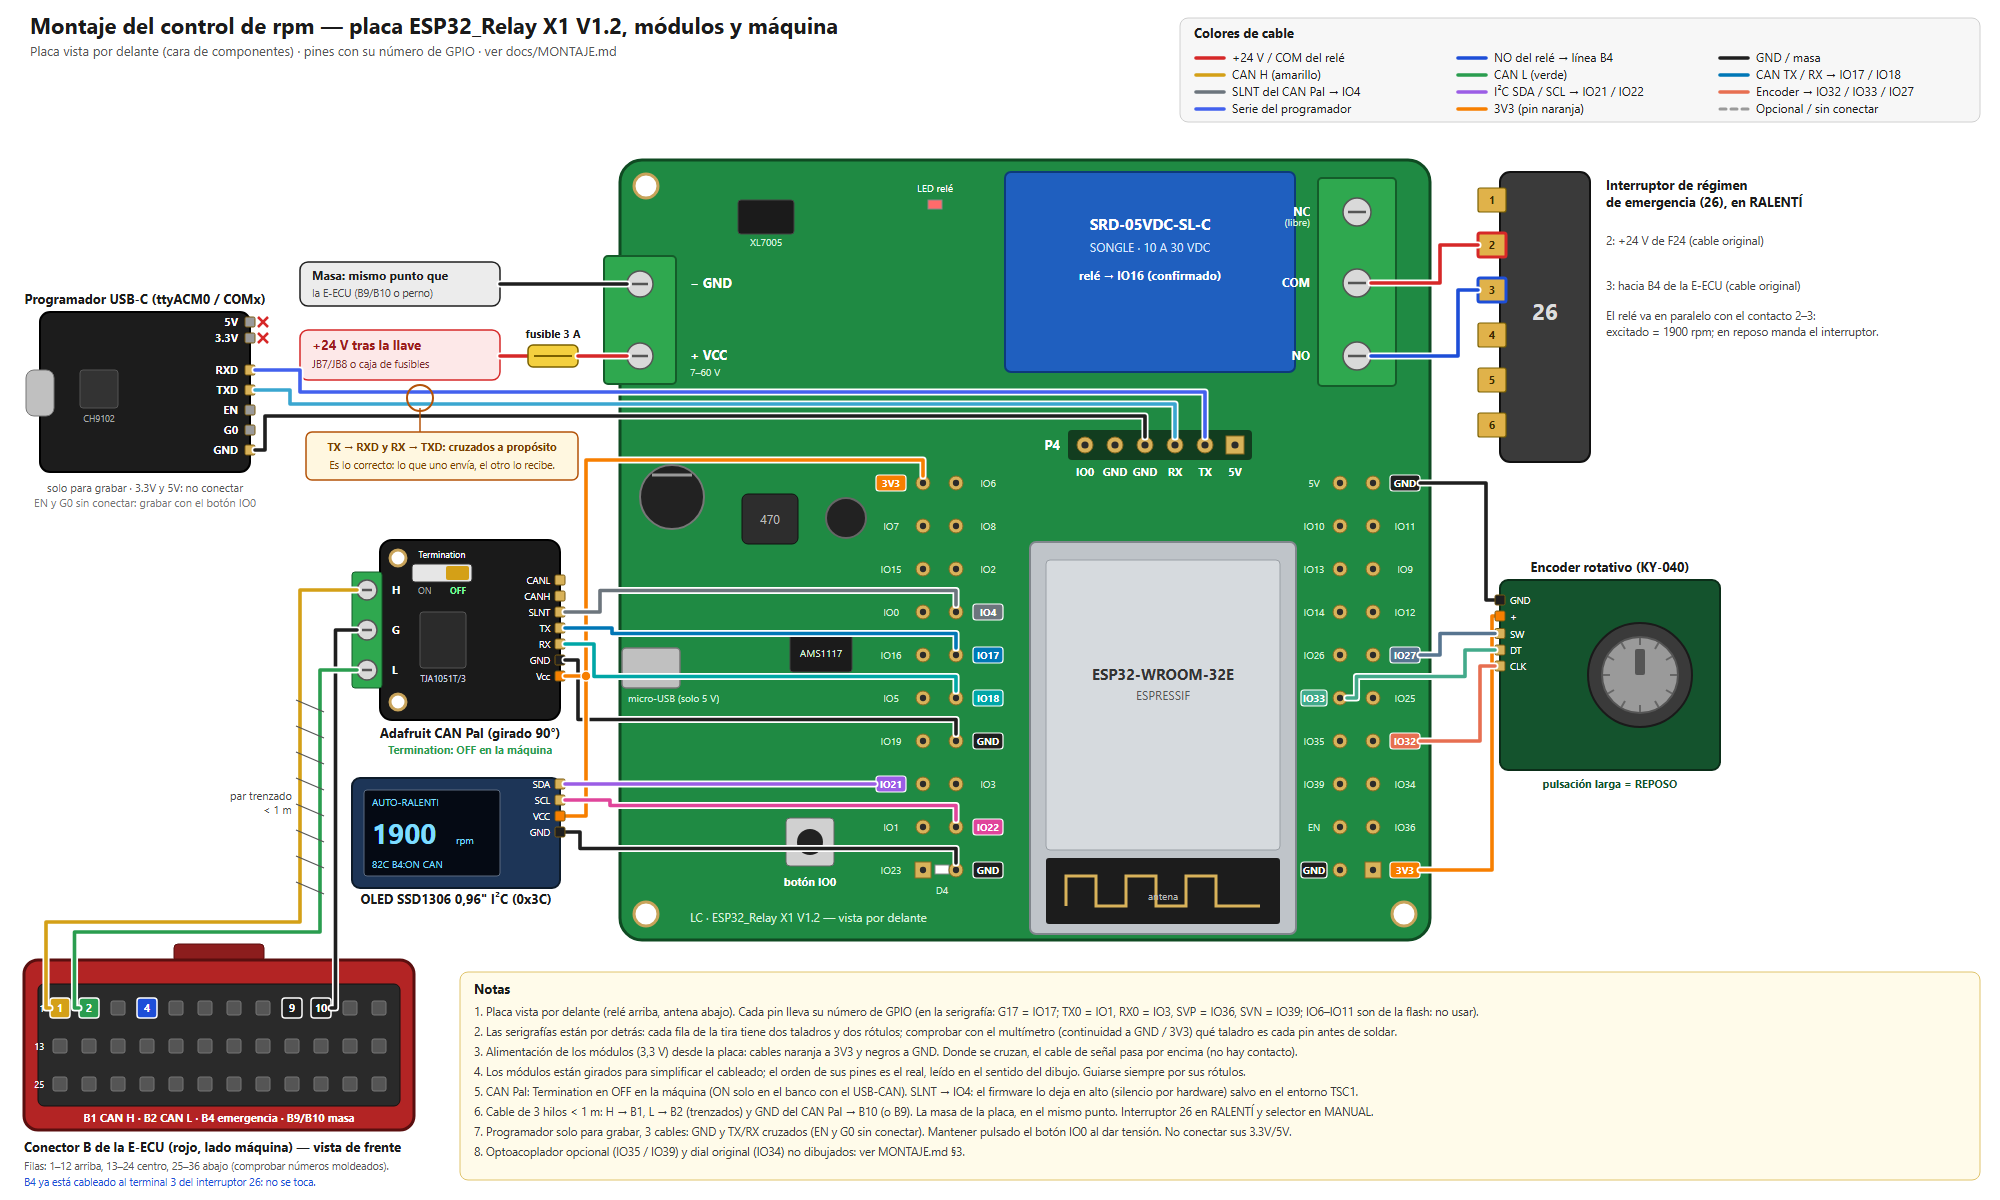
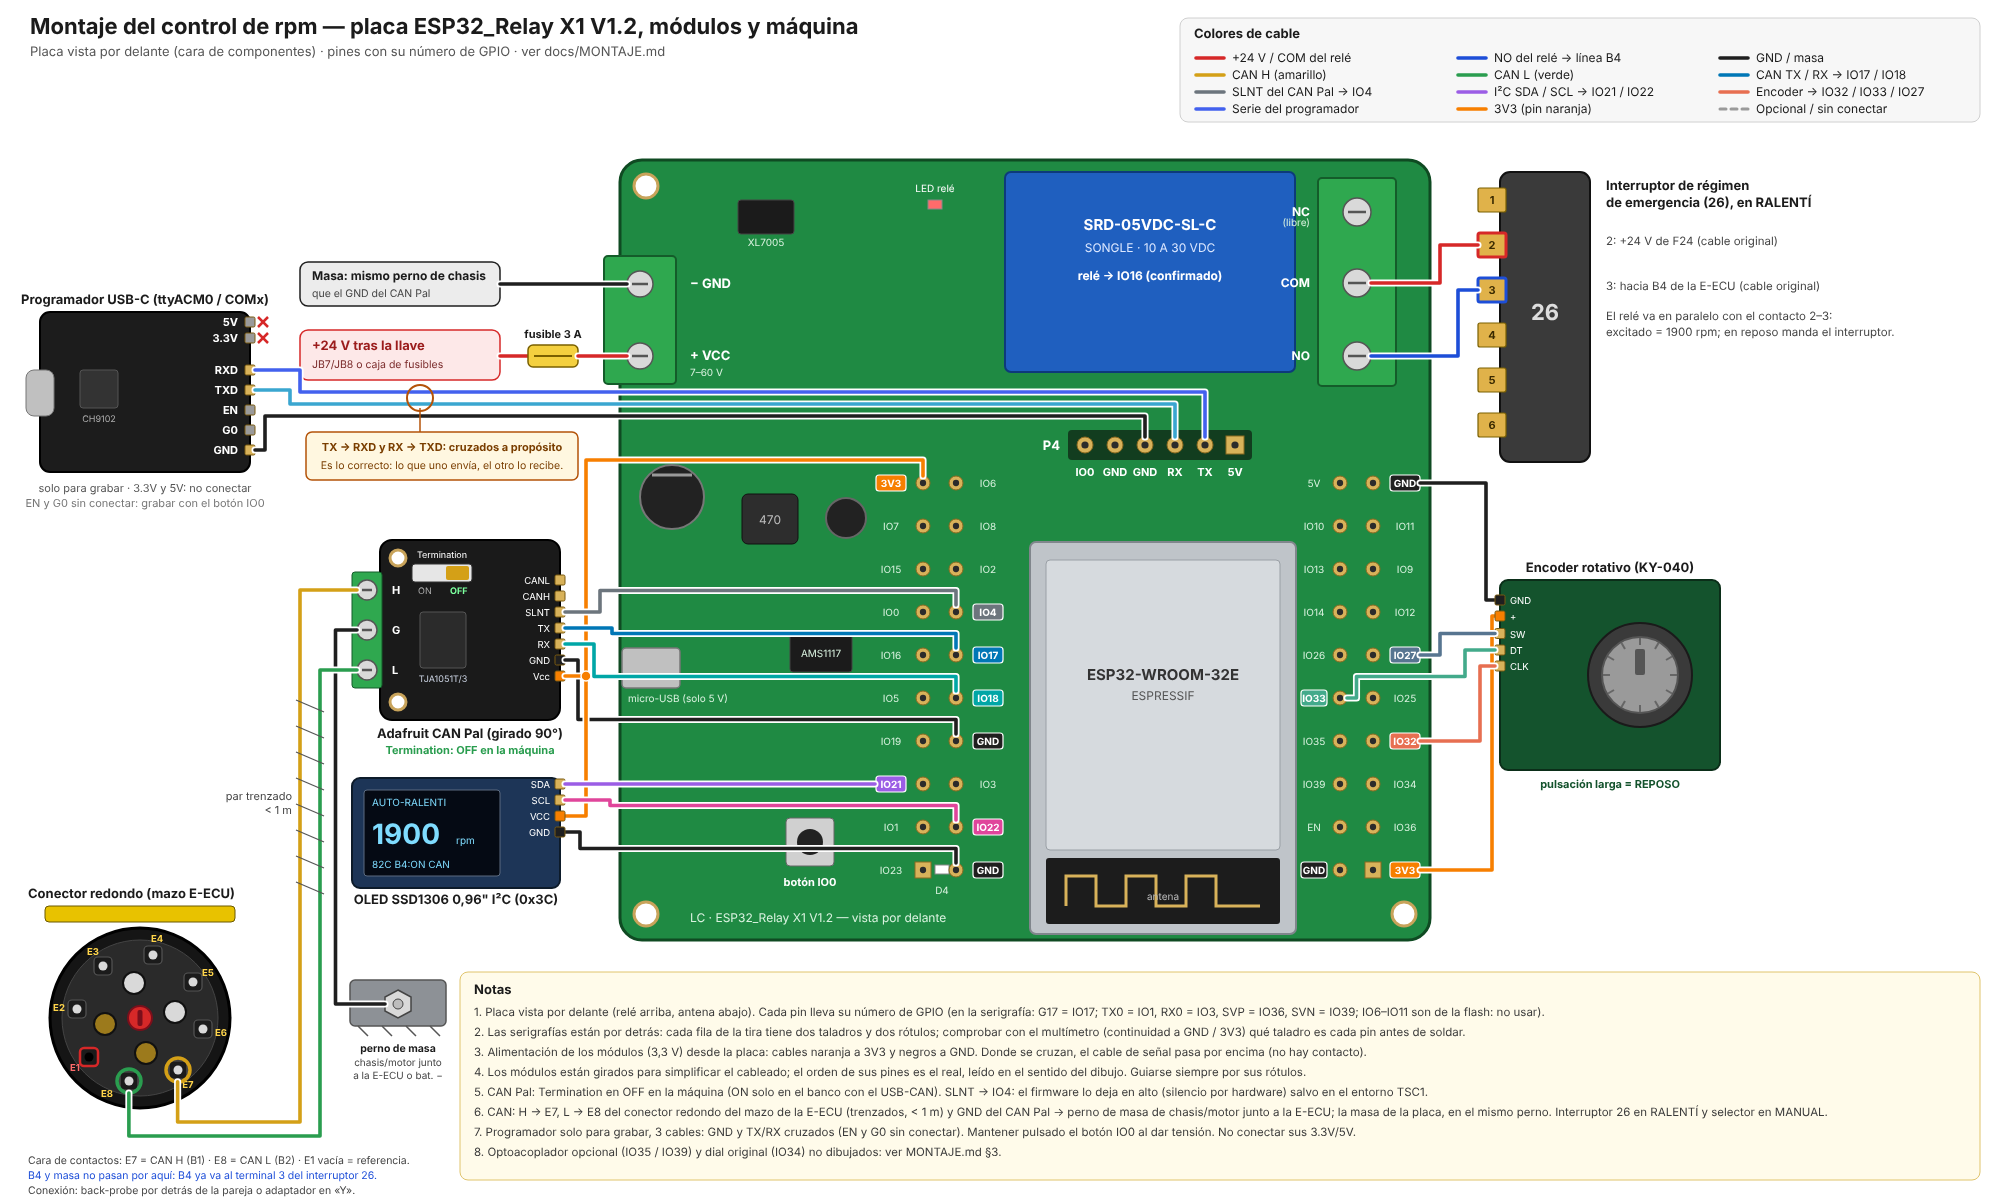
Diagrama de montaje: conector redondo del mazo de la E-ECU (E7/E8) y perno de masa en lugar del conector B
Claude-Session: https://claude.ai/code/session_01P7Zsw5NLTBMVKWo4ZsTFMR

diff --git a/tools/gen_esquema_montaje.py b/tools/gen_esquema_montaje.py
@@ -184,8 +184,8 @@ for k, y in enumerate(RK):
 
 # ================================================================ alimentación de la máquina
 a('<rect x="300" y="362" width="200" height="44" rx="8" fill="#ececec" stroke="#1f1f1f" stroke-width="1.5"/>')
-text(312, 380, "Masa: mismo punto que", size=12, weight="bold")
-text(312, 397, "la E-ECU (B9/B10 o perno)", size=10.5, fill="#444")
+text(312, 380, "Masa: mismo perno de chasis", size=12, weight="bold")
+text(312, 397, "que el GND del CAN Pal", size=10.5, fill="#444")
 wire([(500, 384), (627, 384)], C["gnd"])
 a('<rect x="300" y="430" width="200" height="50" rx="8" fill="#fde8e8" stroke="#d62828" stroke-width="1.5"/>')
 text(312, 450, "+24 V tras la llave", size=13, weight="bold", fill="#9b1c1c")
@@ -284,38 +284,60 @@ text(456, 1004, "OLED SSD1306 0,96\" I²C (0x3C)", size=13, anchor="middle", wei
 wire([(565, 884), (875, 884)], C["sda"])                                              # SDA → IO21 (ext. rango 7)
 wire([(565, 900), (610, 900), (610, 905.5), (956, 905.5), (956, 920)], C["scl"])        # SCL → IO22 (int. rango 8)
 
-# ================================================================ conector B de la E-ECU (abajo a la izquierda)
-CBX, CBY = 24, 1060
-a(f'<rect x="{CBX + 150}" y="{CBY - 16}" width="90" height="18" rx="4" fill="#8c1d1d" stroke="#5a0f0f"/>')
-a(f'<rect x="{CBX}" y="{CBY}" width="390" height="170" rx="14" fill="#b32424" stroke="#5a0f0f" stroke-width="3"/>')
-a(f'<rect x="{CBX + 14}" y="{CBY + 24}" width="362" height="122" rx="6" fill="#2a2a2a" stroke="#111"/>')
-CX = [CBX + 36 + 29 * i for i in range(12)]
-RY = [CBY + 48, CBY + 86, CBY + 124]
-special = {1: ("canh", "1"), 2: ("canl", "2"), 4: ("b4", "4"), 9: ("gnd", "9"), 10: ("gnd", "10")}
-for r, y in enumerate(RY):
-    for i, x in enumerate(CX):
-        n = r * 12 + i + 1
-        if n in special:
-            col, lab = special[n]
-            a(f'<rect x="{x - 10}" y="{y - 10}" width="20" height="20" rx="3" fill="{C[col]}" stroke="#fff" stroke-width="1.5"/>')
-            text(x, y + 4, lab, size=11, fill="#ffffff", anchor="middle", weight="bold")
-        else:
-            a(f'<rect x="{x - 7}" y="{y - 7}" width="14" height="14" rx="2" fill="#555" stroke="#777"/>')
-for lab, y in [("1", RY[0]), ("13", RY[1]), ("25", RY[2])]:
-    text(CBX + 20, y + 4, lab, size=9, fill="#ffffff", anchor="end")
-text(CBX + 195, CBY + 162, "B1 CAN H · B2 CAN L · B4 emergencia · B9/B10 masa", size=11, fill="#ffffff", anchor="middle", weight="bold")
-text(CBX, CBY + 192, "Conector B de la E-ECU (rojo, lado máquina) — vista de frente", size=13, weight="bold")
-text(CBX, CBY + 210, "Filas: 1–12 arriba, 13–24 centro, 25–36 abajo (comprobar números moldeados).", size=10.5, fill="#555")
-text(CBX, CBY + 226, "B4 ya está cableado al terminal 3 del interruptor 26: no se toca.", size=10.5, fill=C["b4"])
-# GND del CAN Pal (borne G) → B10: referencia de masa común con la E-ECU
-wire([(357, 730), (335.5, 730), (335.5, RY[0]), (CX[9] + 10, RY[0])], C["gnd"])
-# H → B1, L → B2 (par trenzado)
-wire([(357, 690), (300, 690), (300, 1022), (CX[0] - 14, 1022), (CX[0] - 14, RY[0]), (CX[0] - 10, RY[0])], C["canh"])
-wire([(357, 770), (320, 770), (320, 1032), (CX[1] - 14.5, 1032), (CX[1] - 14.5, RY[0]), (CX[1] - 10, RY[0])], C["canl"])
+# ================================================================ conector redondo del mazo de la E-ECU (abajo a la izquierda)
+# La clavija de la E-ECU no se puede pinchar (A y B en la misma carcasa): CAN H/L se toman en E7/E8 del
+# conector redondo (medido 2026-10-21) y la masa en un perno de chasis. B4 y B9/B10 no pasan por él.
+# Geometría y numeración como tools/gen_conector_MC02.py (E1 = cavidad exterior vacía, sentido horario).
+RCX, RCY = 140, 1118
+
+
+def polar(r, ang):
+    t = math.radians(ang)
+    return RCX + r * math.sin(t), RCY - r * math.cos(t)
+
+
+a(f'<rect x="{RCX - 95}" y="{RCY - 112}" width="190" height="16" rx="4" fill="#e8c200" stroke="#6b5800"/>')
+a(f'<circle cx="{RCX}" cy="{RCY}" r="90" fill="#151515" stroke="#000" stroke-width="3"/>')
+a(f'<circle cx="{RCX}" cy="{RCY}" r="78" fill="#2a2a2a" stroke="#444"/>')
+for ang, montado in [(260, False), (350, True), (80, True), (170, False)]:
+    x, y = polar(36, ang)
+    a(f'<circle cx="{x:.0f}" cy="{y:.0f}" r="11" fill="{"#d9d9d9" if montado else "#9c7a1c"}" stroke="#111" stroke-width="2"/>')
+EXT = [(233, False), (278, True), (325, True), (12, True), (56, True), (100, True), (144, True), (190, True)]
+for i, (ang, montado) in enumerate(EXT, 1):
+    x, y = polar(64, ang)
+    a(f'<rect x="{x - 9:.0f}" y="{y - 9:.0f}" width="18" height="18" rx="4" fill="#1b1b1b" '
+      f'stroke="{"#d62828" if i == 1 else "#555"}" stroke-width="{2.5 if i == 1 else 1.2}"/>')
+    a(f'<circle cx="{x:.0f}" cy="{y:.0f}" r="4.5" fill="{"#d9d9d9" if montado else "#000"}"/>')
+    lx, ly = polar(82, ang + (14 if i == 8 else 0))
+    text(f"{lx:.0f}", f"{ly + 4:.0f}", f"E{i}", size=9.5, fill="#ff6b6b" if i == 1 else "#ffd54a", anchor="middle", weight="bold")
+a(f'<circle cx="{RCX}" cy="{RCY}" r="12" fill="#d62828" stroke="#7a0f1b" stroke-width="2"/>')
+a(f'<rect x="{RCX - 2.5}" y="{RCY - 8}" width="5" height="16" rx="2" fill="#7a0f1b"/>')
+E7, E8 = polar(64, 144), polar(64, 190)
+for (x, y), col in [(E7, C["canh"]), (E8, C["canl"])]:
+    a(f'<circle cx="{x:.0f}" cy="{y:.0f}" r="12" fill="none" stroke="{col}" stroke-width="3.5"/>')
+text(RCX - 112, RCY - 120, "Conector redondo (mazo E-ECU)", size=13, weight="bold")
+text(RCX - 112, RCY + 146, "Cara de contactos: E7 = CAN H (B1) · E8 = CAN L (B2) · E1 vacía = referencia.", size=10.5, fill="#444")
+text(RCX - 112, RCY + 161, "B4 y masa no pasan por aquí: B4 ya va al terminal 3 del interruptor 26.", size=10.5, fill=C["b4"])
+
+# Perno de masa del chasis / motor junto a la E-ECU (o negativo de batería)
+a('<rect x="350" y="1080" width="96" height="46" rx="5" fill="#8d9196" stroke="#555" stroke-width="1.5"/>')
+for k in range(4):
+    a(f'<line x1="{358 + k * 24}" y1="1126" x2="{368 + k * 24}" y2="1136" stroke="#555" stroke-width="1.5"/>')
+a('<polygon points="398,1090 411,1097 411,1111 398,1118 385,1111 385,1097" fill="#d9d9d9" stroke="#444" stroke-width="1.5"/>')
+a('<circle cx="398" cy="1104" r="5" fill="#bdbdbd" stroke="#444"/>')
+text(398, 1152, "perno de masa", size=10.5, anchor="middle", weight="bold")
+text(398, 1166, "chasis/motor junto", size=10, fill="#444", anchor="middle")
+text(398, 1179, "a la E-ECU o bat. −", size=10, fill="#444", anchor="middle")
+# GND del CAN Pal (borne G) → perno: referencia de masa común con la E-ECU
+wire([(357, 730), (335.5, 730), (335.5, 1104), (385, 1104)], C["gnd"])
+# H → E7, L → E8 (par trenzado), por debajo del conector, sin cruces
+wire([(357, 690), (300, 690), (300, 1222), (E7[0], 1222), (E7[0], E7[1] + 12)], C["canh"])
+wire([(357, 770), (320, 770), (320, 1236), (E8[0], 1236), (E8[0], E8[1] + 12)], C["canl"])
 for y in range(800, 1000, 26):
     a(f'<path d="M 296 {y} C 310 {y + 6}, 310 {y + 6}, 324 {y + 12}" stroke="#555" stroke-width="1.2" fill="none"/>')
 text(292, 900, "par trenzado", size=11, fill="#444", anchor="end")
 text(292, 914, "< 1 m", size=11, fill="#444", anchor="end")
+text(RCX - 112, RCY + 176, "Conexión: back-probe por detrás de la pareja o adaptador en «Y».", size=10.5, fill="#444")
 
 # ================================================================ interruptor de emergencia 26 (derecha, junto al relé)
 a('<rect x="1500" y="272" width="90" height="290" rx="10" fill="#3a3a3a" stroke="#111" stroke-width="2"/>')
@@ -366,7 +388,7 @@ notas = [
     "3. Alimentación de los módulos (3,3 V) desde la placa: cables naranja a 3V3 y negros a GND. Donde se cruzan, el cable de señal pasa por encima (no hay contacto).",
     "4. Los módulos están girados para simplificar el cableado; el orden de sus pines es el real, leído en el sentido del dibujo. Guiarse siempre por sus rótulos.",
     "5. CAN Pal: Termination en OFF en la máquina (ON solo en el banco con el USB-CAN). SLNT → IO4: el firmware lo deja en alto (silencio por hardware) salvo en el entorno TSC1.",
-    "6. Cable de 3 hilos < 1 m: H → B1, L → B2 (trenzados) y GND del CAN Pal → B10 (o B9). La masa de la placa, en el mismo punto. Interruptor 26 en RALENTÍ y selector en MANUAL.",
+    "6. CAN: H → E7, L → E8 del conector redondo del mazo de la E-ECU (trenzados, < 1 m) y GND del CAN Pal → perno de masa de chasis/motor junto a la E-ECU; la masa de la placa, en el mismo perno. Interruptor 26 en RALENTÍ y selector en MANUAL.",
     "7. Programador solo para grabar, 3 cables: GND y TX/RX cruzados (EN y G0 sin conectar). Mantener pulsado el botón IO0 al dar tensión. No conectar sus 3.3V/5V.",
     "8. Optoacoplador opcional (IO35 / IO39) y dial original (IO34) no dibujados: ver MONTAJE.md §3.",
 ]

diff --git a/docs/MONTAJE.md b/docs/MONTAJE.md
@@ -4,7 +4,7 @@ Guía de conexión con el hardware que ya tenemos. Pinout de la placa y fotos: [
 
 ![Diagrama ilustrado de montaje](esquema_montaje_ESP32.png)
 
-Diagrama ilustrado de todas las conexiones (fuente editable: [`esquema_montaje_ESP32.svg`](esquema_montaje_ESP32.svg)): placa vista por delante con el número de GPIO de cada pin, programador, Adafruit CAN Pal, OLED, encoder, conector B de la E-ECU, interruptor de emergencia 26 y alimentación.
+Diagrama ilustrado de todas las conexiones (fuente editable: [`esquema_montaje_ESP32.svg`](esquema_montaje_ESP32.svg)): placa vista por delante con el número de GPIO de cada pin, programador, Adafruit CAN Pal, OLED, encoder, conector redondo del mazo de la E-ECU (E7 CAN H / E8 CAN L), perno de masa de chasis, interruptor de emergencia 26 y alimentación.
 
 ## 0. Material
 
@@ -64,8 +64,8 @@ PlatformIO: `board = esp32dev`, `upload_speed = 921600` (bajar a 115200 si falla
 | | RX | **G18** | |
 | | SLNT | **G4** | alto = silencio (no puede transmitir); el firmware lo deja en alto salvo en el entorno TSC1 |
 | | Vcc / GND | **3V3 / GND** | |
-| | H / L (bornero) | → máquina: **B1 / B2** de la E-ECU (o JB14 / JB6 del mazo de la V-ECU) | **Interruptor de terminación en OFF**; par trenzado < 1 m |
-| | GND (borne central) | → **B10 (o B9)**, masa de la E-ECU | Referencia de masa común del CAN: va en el mismo cable que H/L (3 hilos) |
+| | H / L (bornero) | → máquina: **E7 / E8** del conector redondo del mazo de la E-ECU (= B1 / B2; [`CAPTURA_CAN.md`](CAPTURA_CAN.md) §3b), o JB14 / JB6 del mazo de la V-ECU. La clavija de la E-ECU no se puede pinchar | **Interruptor de terminación en OFF**; par trenzado < 1 m; back-probe o adaptador en «Y» |
+| | GND (borne central) | → **perno de masa del chasis/motor junto a la E-ECU** (o negativo de batería) | Referencia de masa común del CAN. B9/B10 no pasan por el conector redondo: comprobar con contacto que E7 y E8 dan ≈ 2,5 V respecto a ese perno |
 | **OLED SSD1306** | SDA / SCL | **G21 / G22** | dirección 0x3C |
 | | VCC / GND | **3V3 / GND** | |
 | **Encoder** | CLK / DT / SW | **G32 / G33 / G27** | pull-up interno en SW |
@@ -81,7 +81,7 @@ Pines que **no se usan**: G0, G2, G5, G12, G15 (pines de arranque), SD0–SD3, C
 | Borne de la placa | Va a | Notas |
 |---|---|---|
 | **VCC** | +24 V tras la llave de contacto (JB7/JB8 del mazo de la V-ECU o salida libre de la caja de fusibles) | **Fusible en línea de 3 A** |
-| **GND** | Masa en el **mismo punto que la E-ECU**: B9/B10 o el perno de chasis junto a la E-ECU | Así la placa, el CAN Pal (su borne GND va a B10/B9) y la E-ECU comparten la misma referencia, sin diferencias de masa por el chasis. No alimentar otros equipos desde B9/B10 |
+| **GND** | El **mismo perno de masa de chasis/motor** junto a la E-ECU que el GND del CAN Pal | Así la placa, el CAN Pal y la E-ECU comparten la misma referencia, sin diferencias de masa por el chasis |
 | Relé **COM** | Terminal **2** del interruptor de emergencia 26 (+24 V de F24) | Faston o back-probe; no cortar cables |
 | Relé **NO** | Terminal **3** del interruptor de emergencia 26 (línea hacia **B4** de la E-ECU) | Relé excitado = 24 V en B4 = 1900 rpm; en reposo manda el interruptor original |
 | Relé **NC** | Sin conectar | |

diff --git a/README.md b/README.md
@@ -52,7 +52,7 @@ docs/
 ├── conector_MC02.svg/.png          ← cara de contactos del conector redondo del mazo de la E-ECU (E7 CAN H, E8 CAN L)
 ├── fotos/                          ← fotos de la máquina, la E-ECU y los conectores
 ├── esquema_rpm_ESP32.svg/.png      ← esquema de la versión solo-rpm con módulos premontados
-├── esquema_montaje_ESP32.svg/.png  ← diagrama ilustrado de montaje: placa, módulos, conector B e interruptor 26
+├── esquema_montaje_ESP32.svg/.png  ← diagrama ilustrado de montaje: placa, módulos, conector redondo (E7/E8), masa e interruptor 26
 ├── LISTA_COMPRA.md                 ← lo que falta comprar para el control de rpm (Amazon España)
 ├── esquema_conexion_ESP32.svg/.png ← esquema de conexión completo
 ├── anexos/ A…H                     ← informes de investigación con todas las fuentes y su fiabilidad
@@ -77,7 +77,7 @@ tools/
 
 ![Diagrama ilustrado de montaje](docs/esquema_montaje_ESP32.png)
 
-Conexiones de la placa ESP32_Relay X1 con el programador, el módulo CAN, la OLED, el encoder, el conector B de la E-ECU y el interruptor de emergencia 26. Fuente editable: [`docs/esquema_montaje_ESP32.svg`](docs/esquema_montaje_ESP32.svg); pasos en [`docs/MONTAJE.md`](docs/MONTAJE.md).
+Conexiones de la placa ESP32_Relay X1 con el programador, el módulo CAN, la OLED, el encoder, el **conector redondo del mazo de la E-ECU** (CAN H → E7, CAN L → E8), el perno de masa de chasis y el interruptor de emergencia 26 (B4). Fuente editable: [`docs/esquema_montaje_ESP32.svg`](docs/esquema_montaje_ESP32.svg); pasos en [`docs/MONTAJE.md`](docs/MONTAJE.md).
 
 ## Captura del bus con el portátil (pruebas)
 

diff --git a/CHANGELOG.md b/CHANGELOG.md
@@ -5,6 +5,7 @@ Todos los cambios relevantes del proyecto se documentan aquí. Formato basado en
 ## [Unreleased]
 
 ### Añadido (punto de conexión)
+- Diagrama de montaje (`esquema_montaje_ESP32`, `tools/gen_esquema_montaje.py`): el conector B de la E-ECU se sustituye por el **conector redondo del mazo de la E-ECU** (H → E7, L → E8) y un **perno de masa de chasis** para el GND del CAN Pal y de la placa; B4 sigue en el terminal 3 del interruptor 26. `MONTAJE.md` §3–§4 y README al día.
 - Diagrama de captura: la pantalla del portátil muestra el **panel del bus** (aplicación propia, 127.0.0.1:8766), con cómo abrirlo (acceso del escritorio o `panel_bus.py`, `--demo`) y el panel de la placa ESP32 por el otro USB. Pasos y análisis desde la guía y el botón Analizar del panel.
 - Guía paso a paso del panel del bus (`tools/panel_bus.html`) al día con el punto de conexión real: medidas y conexión en **E7/E8** del conector redondo y masa en un perno de chasis/motor (antes B1/B2/B9 en la clavija de la E-ECU). `docs/CAPTURA_CAN.md` §1 y §3, igual.
 - README: sección «Captura del bus con el portátil (pruebas)» con el diagrama de conexión del portátil y el del DIP del SH-C30A.
